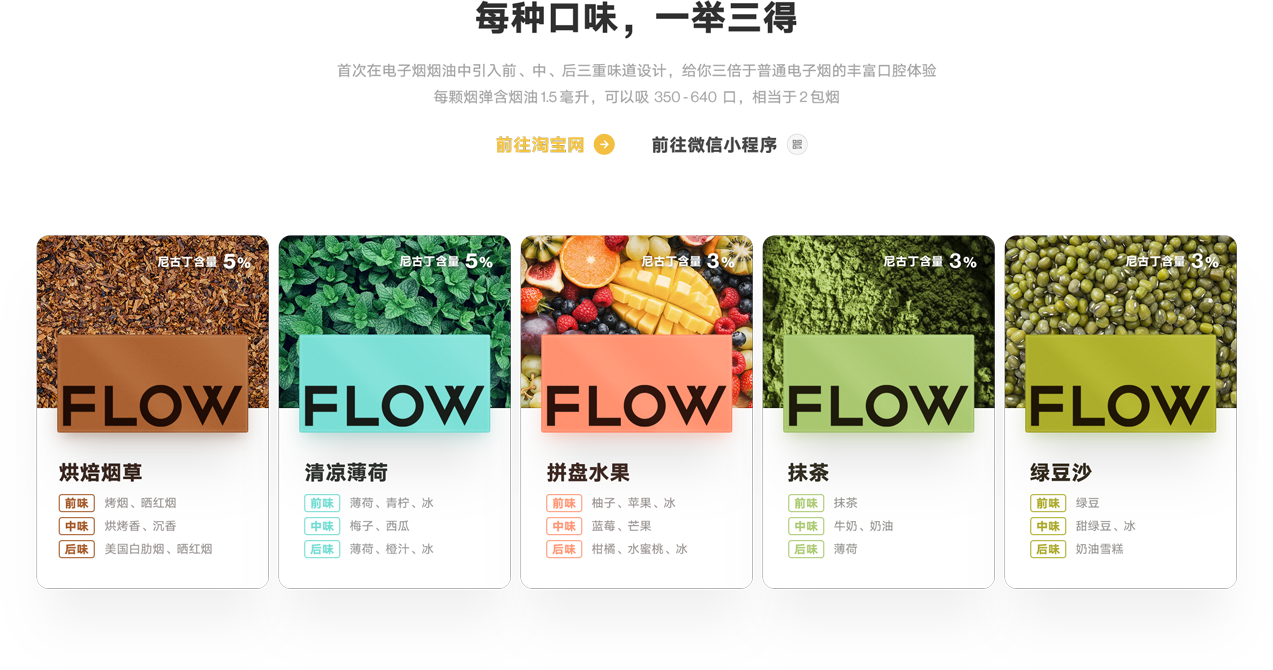
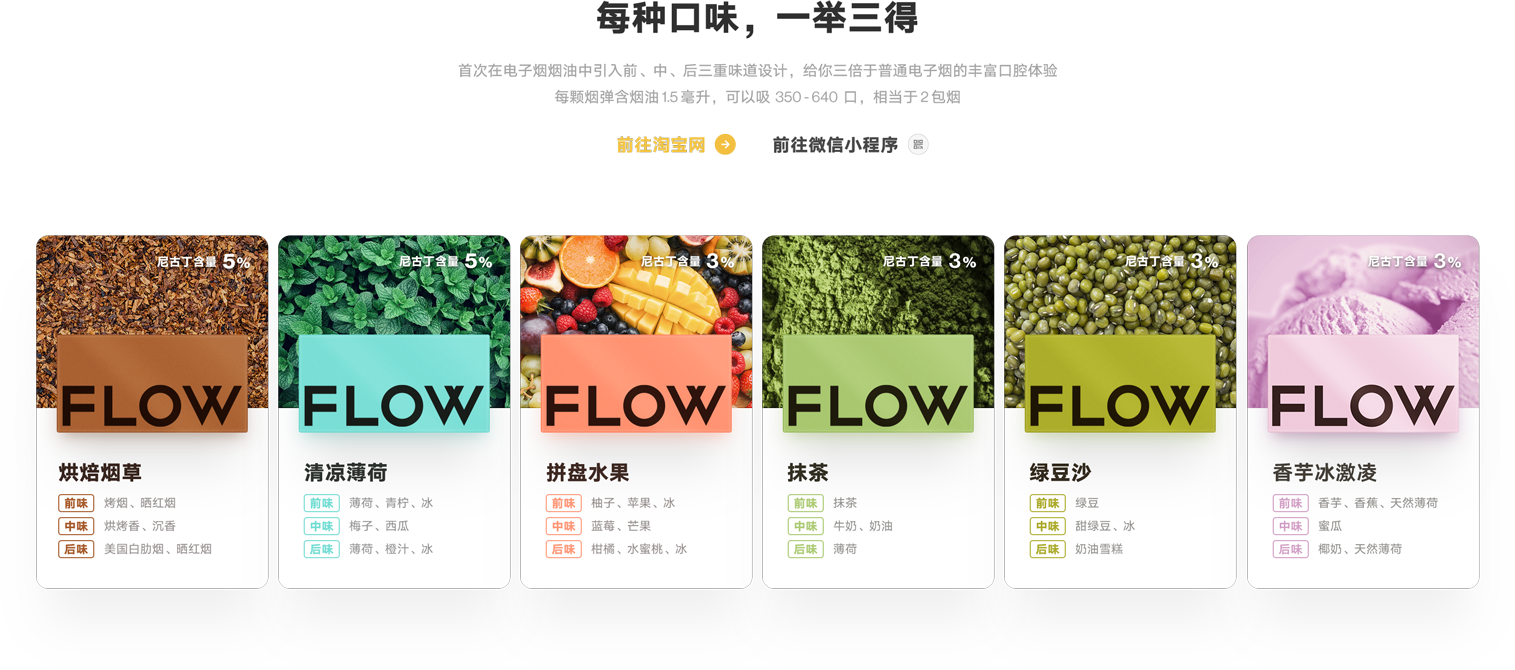
update: shop-category imgs.

diff --git a/pages/shop.vue b/pages/shop.vue
@@ -208,7 +208,7 @@ export default {
 
 .shop-colors {
     position: relative;
-    width: 1273px;
+    width: 1515px;
     height: 670px;
     margin: 0 auto;
     background-repeat: no-repeat;
